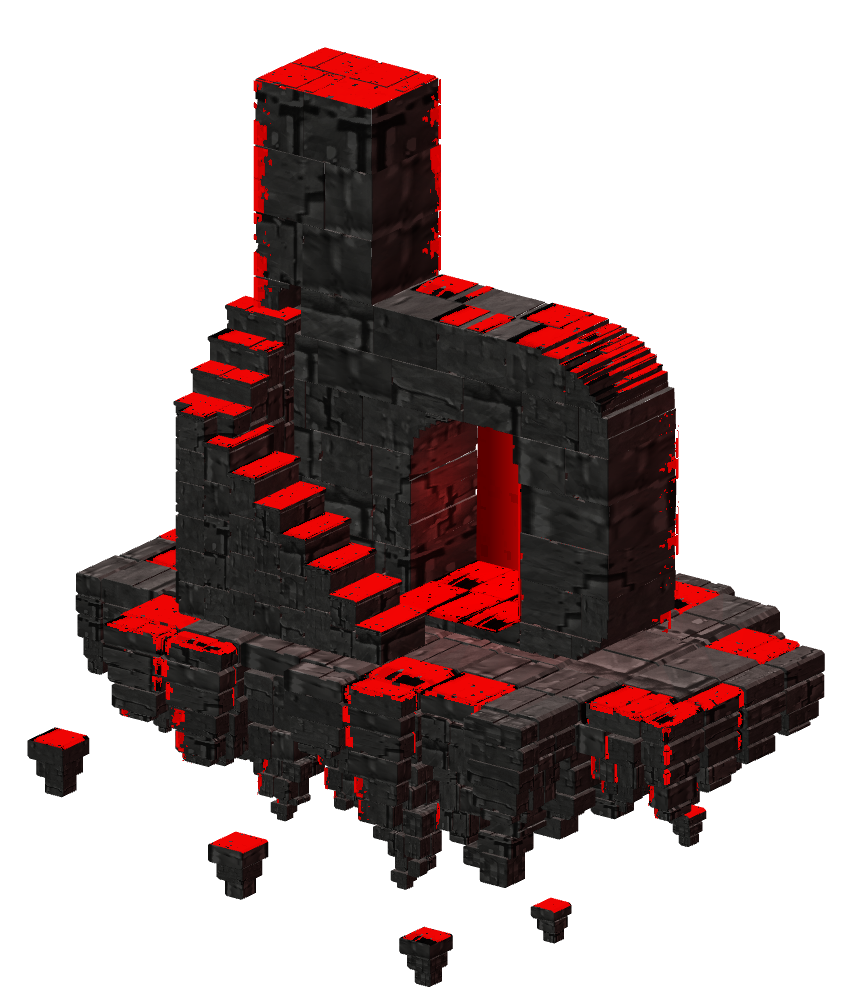
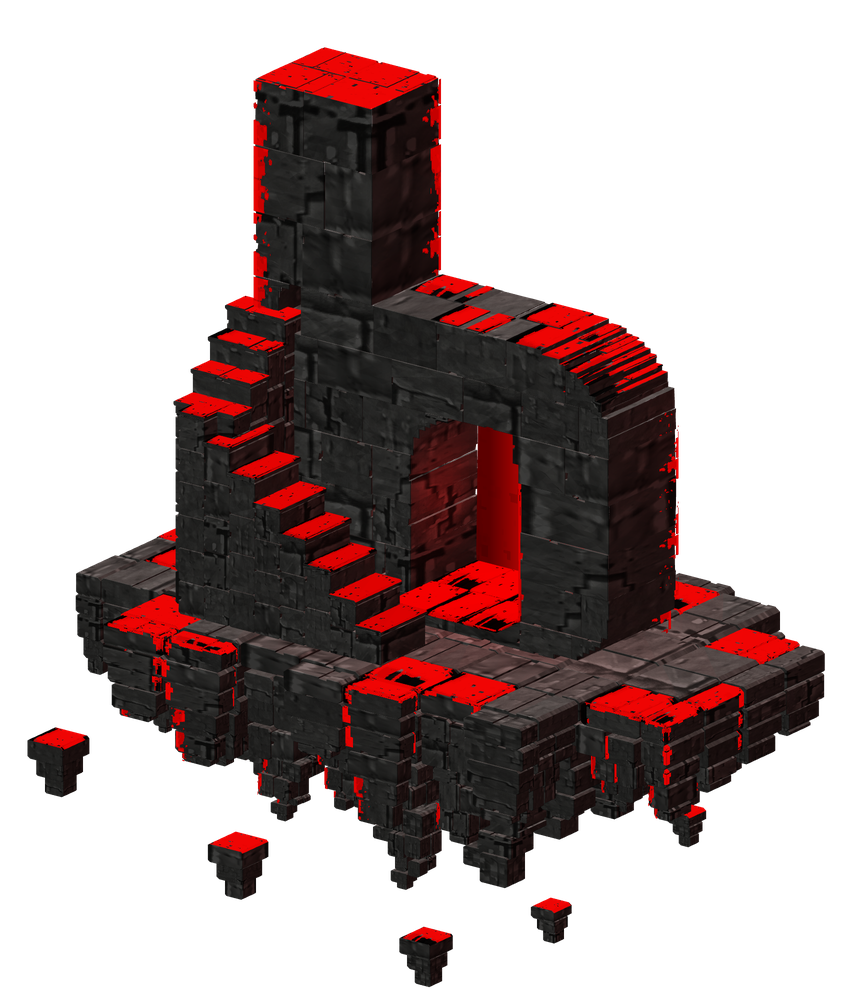
Island: light climbs the stairs; no Pause button
Lower stair treads are dimmer and the top ones full red (climb 0.87 from the
stair tuner), baked as tread vertex colours. The loading artwork is
regenerated with a new browser-based path (tools/poster) that renders with the
island's own modules; it matched the original Mesa render to about 1/255.
The on-page Pause control is removed; reduced motion still stills the island.

diff --git a/island/world.js b/island/world.js
@@ -38,7 +38,7 @@ export function createWorld({shadows = true, stoneMap = null} = {}) {
     if(g!==geometry)g.dispose();
   }
   const swatches=Array.from({length:7},(_,i)=>new THREE.Color(0x82817d).multiplyScalar(.85+i*.035));
-  function add(geometry,material=dark,shade=null) {
+  function add(geometry,material=dark,shade=null,tint=1) {
     if(geometry.index){const source=geometry;geometry=source.toNonIndexed();source.dispose();}
     const shadeColor=shade||swatches[Math.floor(rand()*swatches.length)];
     const tile=Math.floor(rand()*16),redTile=Math.floor(rand()*8);
@@ -51,7 +51,7 @@ export function createWorld({shadows = true, stoneMap = null} = {}) {
     for(let i=0;i<attrs.position.count;i+=3){
       const top=(attrs.normal.getY(i)+attrs.normal.getY(i+1)+attrs.normal.getY(i+2))/3>.58;
       const faceMaterial=material===red&&top?red:dark;
-      const color=faceMaterial===red?new THREE.Color(0xffffff).multiplyScalar(.94):shadeColor;
+      const color=faceMaterial===red?new THREE.Color(0xffffff).multiplyScalar(.94*tint):shadeColor;
       if(!batches.has(faceMaterial))batches.set(faceMaterial,[]);
       const list=batches.get(faceMaterial);
       // Store compact arrays; static faces are merged into two draw calls below.
@@ -62,7 +62,7 @@ export function createWorld({shadows = true, stoneMap = null} = {}) {
     }
     geometry.dispose();stoneCount++;
   }
-  function polygon(points,z,depth,material=dark,bevel=.006){
+  function polygon(points,z,depth,material=dark,bevel=.006,tint=1){
     if(points.length<3)return;
     // Remove redundant edge vertices, then notch occasional edges into broken stone.
     const clean=points.filter((p,i)=>{const a=points[(i+points.length-1)%points.length],b=points[(i+1)%points.length];return Math.abs((p[0]-a[0])*(b[1]-p[1])-(p[1]-a[1])*(b[0]-p[0]))>.000005;});
@@ -87,12 +87,12 @@ export function createWorld({shadows = true, stoneMap = null} = {}) {
     }
     // Only primary exposed masonry receives dense relief; island fragments retain crisp cuts.
     if(depth>.7&&size.y>.40)g=fractureGeometry(g,chipped,Math.floor(rand()*10000));
-    add(g,material);return g;
+    add(g,material,null,tint);return g;
   }
-  function slab(x,y,z,w,h,d,material=dark,chip=.023){
+  function slab(x,y,z,w,h,d,material=dark,chip=.023,tint=1){
     const a=chip*(.5+rand()),b=chip*(.5+rand());
     const pts=[[x-w/2+a,y-h/2],[x+w/2-b,y-h/2],[x+w/2,y-h/2+b],[x+w/2,y+h/2-a],[x+w/2-a,y+h/2],[x-w/2+b,y+h/2],[x-w/2,y+h/2-b],[x-w/2,y-h/2+a]];
-    return polygon(pts,z-d/2,d,material,Math.min(.006,w*.015,h*.015));
+    return polygon(pts,z-d/2,d,material,Math.min(.006,w*.015,h*.015),tint);
   }
   // Front-elevation silhouette measured from the supplied hero and close-ups.
   // A flat crown, tight stepped shoulder, broad upright and a small lower corner.
@@ -167,7 +167,9 @@ export function createWorld({shadows = true, stoneMap = null} = {}) {
   function stairColumn(x,z,w,d,top){
     const courses=Math.max(1,Math.round(top/.55)),h=(top-.08)/courses;
     for(let j=0;j<courses;j++)slab(x,.08+(j+.5)*h,z,w-.012,h-.014,d-.014,dark,.022);
-    slab(x,top+.025,z,w+.018,.075,d+.02,red,.015);
+    // The light climbs the stairs: lower treads are dimmer, the top ones full red (tuned by eye, climb 0.87).
+    const climb=THREE.MathUtils.clamp((top+.0625-.6)/3.6,0,1);
+    slab(x,top+.025,z,w+.018,.075,d+.02,red,.015,1-.87*.75*(1-climb));
   }
   const turnZ=1.46,turnX=-1.93;
   for(let i=0;i<4;i++)stairColumn(turnX,.63+i*.28,.74,.29,4.14-i*.36);

diff --git a/island/scene.js b/island/scene.js
@@ -5,7 +5,6 @@ import { sculptureCamera, frameSculpture } from './composition.js?v=embers-13';
 
 const container = document.querySelector('.hero__stage');
 const canvas = document.querySelector('#sculpture-canvas');
-const motionButton = document.querySelector('.motion-toggle');
 const reducedMotion = matchMedia('(prefers-reduced-motion: reduce)');
 const compact = matchMedia('(max-width: 760px)');
 let renderer;
@@ -20,7 +19,6 @@ function fallback() {
   if(errorNotice)errorNotice.hidden=false;
   cancelAnimationFrame(frame);
   container.classList.remove('is-3d-ready');
-  motionButton.hidden = true;
   renderer?.dispose();
 }
 
@@ -59,15 +57,11 @@ try {
   },{passive:true});
   document.querySelector('.hero').addEventListener('pointerleave',()=>pointer.set(0,0));
   function updateMotion() {
-    motionButton.setAttribute('aria-pressed',String(paused));
-    motionButton.setAttribute('aria-label',paused?'Resume hero animation':'Pause hero animation');
-    motionButton.firstElementChild.textContent=paused?'▷':'Ⅱ';
     if(paused)pointer.set(0,0);
   }
-  motionButton.addEventListener('click',()=>{paused=!paused;updateMotion();});
   reducedMotion.addEventListener('change',event=>{paused=event.matches;updateMotion();});
   canvas.addEventListener('webglcontextlost',event=>{event.preventDefault();fallback();});
-  resize();model.animate(0,!paused);motionButton.hidden=true;updateMotion();
+  resize();model.animate(0,!paused);updateMotion();
   let slowFrames=0,measured=0;
   function tick(now) {
     frame=requestAnimationFrame(tick);
@@ -92,7 +86,7 @@ try {
       model.applyStoneTexture(stoneMap);
       materialReady=true;model.animate(0,!paused);
       renderer.render(scene,camera);
-      container.classList.add('is-3d-ready');if(errorNotice)errorNotice.hidden=true;motionButton.hidden=false;updateMotion();
+      container.classList.add('is-3d-ready');if(errorNotice)errorNotice.hidden=true;updateMotion();
       // ?tune opens the red tuning panel (development only).
       if(/[?&]tune\b/.test(globalThis.location?.search||''))import('./tuner.js').then(t=>t.mountTuner(model.world,()=>{if(materialReady)renderer.render(scene,camera);}));
     } catch(error) {

diff --git a/island/tuner.js b/island/tuner.js
@@ -1,6 +1,6 @@
 // Stair tuning panel, for finding the red of the stair treads by eye. Opens only with ?tune in the address, never for
 // visitors. It patches the live red shader at runtime and touches only the twenty stair treads (picked out by their
-// position in world.js); the crown, island and gate keep the approved red. The island sources and the loading artwork's
+// position in world.js; their climbing light is already baked in at 0.87); the crown, island and gate keep the approved red. The island sources and the loading artwork's
 // provenance stay untouched. Once a look is chosen, its values get baked into the island and the artwork regenerated.
 
 import * as THREE from './assets/vendor/three.module.js';
@@ -14,7 +14,7 @@ const CONTROLS = [
   {key: 'glow', label: 'Glow', hint: 'Light the treads give off', min: 0, max: 8, value: 1, format: 'percent'},
   {key: 'speckle', label: 'Wear', hint: 'Clean ← → the dark chips in the stone', min: 0, max: 1, value: 1, format: 'percent'},
   {key: 'edge', label: 'Lit edge', hint: 'A bright pixel lip on each step’s edge', min: 0, max: 1.5, value: 0, format: 'percent'},
-  {key: 'fade', label: 'Climb', hint: 'Lit from the top ← → lit from the bottom', min: -1, max: 1, value: 0, format: 'climb'}
+  {key: 'fade', label: 'Climb', hint: 'Light falls down ← → light climbs up', min: -1, max: 1, value: 0, format: 'climb'}
 ];
 const defaults = {...Object.fromEntries(CONTROLS.map(c => [c.key, c.value])), color: ATLAS_RED};
 
@@ -131,7 +131,7 @@ export function mountTuner(world, render) {
   const formats = {
     percent: x => Math.round(x * 100) + '%',
     hue: x => x === 0 ? 'neutral' : (x < 0 ? 'crimson ' : 'scarlet ') + Math.round(Math.abs(x) * 100),
-    climb: x => x === 0 ? 'even' : (x < 0 ? 'top ' : 'bottom ') + Math.round(Math.abs(x) * 100)
+    climb: x => x === 0 ? 'even' : (x < 0 ? 'falls ' : 'climbs ') + Math.round(Math.abs(x) * 100)
   };
   const inputs = {};
   for (const c of CONTROLS) {

diff --git a/tools/poster/capture.html b/tools/poster/capture.html
@@ -1,0 +1,35 @@
+<!doctype html>
+<meta charset="utf-8">
+<title>Island poster capture</title>
+<style>body{margin:0;background:#090A08;color:#F4F0E6;font:14px system-ui;padding:16px}canvas{width:425px;height:504px;display:block;margin-top:12px}</style>
+<p id="status">Rendering…</p>
+<canvas id="c"></canvas>
+<script type="module">
+// Renders the loading artwork with the live island's own modules: the same geometry, shaders, camera, textures and the
+// quiet time-zero frame the page shows first. Drawn at twice the poster size; tools/poster/finish.py downsamples it.
+import * as THREE from '../../island/assets/vendor/three.module.js';
+import {createWorld} from '../../island/world.js?v=embers-13';
+import {loadStoneTexture} from '../../island/stone.js?v=embers-13';
+import {sculptureCamera} from '../../island/composition.js?v=embers-13';
+
+const W = 850, H = 1008, SCALE = 2;
+const status = document.querySelector('#status');
+const canvas = document.querySelector('#c');
+const renderer = new THREE.WebGLRenderer({canvas, alpha: true, antialias: true, preserveDrawingBuffer: true});
+renderer.setClearColor(0x000000, 0);
+renderer.outputColorSpace = THREE.SRGBColorSpace;
+renderer.toneMapping = THREE.NoToneMapping;
+renderer.setPixelRatio(1);
+renderer.setSize(W * SCALE, H * SCALE, false);
+const scene = new THREE.Scene();
+const camera = sculptureCamera(W / H);
+const model = createWorld();
+scene.add(model.world);
+model.applyStoneTexture(await loadStoneTexture());
+model.animate(0, false);
+renderer.render(scene, camera);
+const blob = await new Promise(r => canvas.toBlob(r, 'image/png'));
+const response = await fetch('/__poster', {method: 'POST', body: blob});
+status.textContent = response.ok ? 'Saved ' + (await response.text()) : 'Save failed: ' + response.status;
+document.title = response.ok ? 'done' : 'failed';
+</script>

diff --git a/css/styles.css b/css/styles.css
@@ -238,30 +238,6 @@ a { color: inherit; text-decoration: none; }
   height: 100%;
 }
 
-.motion-toggle {
-  position: absolute;
-  right: 4%;
-  bottom: 2%;
-  z-index: 2;
-  display: grid;
-  place-items: center;
-  width: 36px;
-  height: 36px;
-  padding: 0;
-  background: rgba(17, 17, 13, 0.8);
-  border: 1px solid rgba(244, 240, 230, 0.2);
-  border-radius: 50%;
-  color: var(--ivory-muted);
-  font: inherit;
-  font-size: 14px;
-  line-height: 1;
-  cursor: pointer;
-  opacity: 0.45;
-  transition: opacity 0.2s ease;
-}
-.motion-toggle[hidden] { display: none; }
-.motion-toggle:hover, .motion-toggle:focus-visible { opacity: 1; }
-
 .scene-error {
   position: absolute;
   left: 4%;

diff --git a/index.html b/index.html
@@ -53,7 +53,6 @@
             width="850" height="1008"
             alt="A lowercase b built from dark fractured stone blocks, floating on a rocky island. Red light catches the exposed edges, the arched doorway and a turning staircase."
             fetchpriority="high" decoding="async">
-          <button class="motion-toggle" type="button" aria-label="Pause hero animation" aria-pressed="false" hidden><span aria-hidden="true">Ⅱ</span></button>
           <div class="scene-error" role="status" hidden><span>3D couldn’t start.</span> <button class="retry-scene" type="button">Retry</button></div>
         </div>
       </figure>

diff --git a/js/hero.js b/js/hero.js
@@ -15,8 +15,6 @@
   import('../island/scene.js').catch(function (error) {
     console.warn('The live sculpture module could not load.', error);
     stage.classList.remove('is-3d-ready');
-    var motion = stage.querySelector('.motion-toggle');
-    if (motion) motion.hidden = true;
     if (notice) notice.hidden = false;
   });
 })();

diff --git a/tools/poster/finish.py b/tools/poster/finish.py
@@ -1,0 +1,28 @@
+"""Downsample the 2x browser render into the loading artwork and refresh its provenance manifest.
+
+Usage: python tools/poster/finish.py poster-2x.png
+"""
+import hashlib, json, sys
+from pathlib import Path
+from PIL import Image
+
+root = Path(__file__).resolve().parents[2]
+assets = root / 'island' / 'assets'
+poster = assets / 'sculpture-fallback-v13.webp'
+manifest_path = assets / 'sculpture-fallback-v13.render.json'
+
+image = Image.open(sys.argv[1]).convert('RGBA')
+# Premultiplied resampling keeps the transparent edges free of dark fringes.
+image = image.convert('RGBa').resize((850, 1008), Image.Resampling.LANCZOS).convert('RGBA')
+image.save(poster, 'WEBP', lossless=True, quality=100, method=6)
+
+sha = lambda path: hashlib.sha256(path.read_bytes()).hexdigest()
+inputs = {f'island/{name}': sha(root / 'island' / name) for name in ['world.js', 'stone.js', 'reference-shading.js', 'composition.js', 'fuse.js']}
+inputs.update({f'island/assets/pixel-{kind}-v9.png': sha(assets / f'pixel-{kind}-v9.png') for kind in ['stone', 'red', 'edge']})
+manifest = {
+    'renderer': 'Browser WebGL via tools/poster/capture.html (live island modules, 2x render, premultiplied Lanczos downsample)',
+    'artworkSha256': sha(poster),
+    'inputs': inputs,
+}
+manifest_path.write_text(json.dumps(manifest, indent=2) + '\n', encoding='utf-8', newline='\n')
+print('poster', poster, manifest['artworkSha256'])

diff --git a/README.md b/README.md
@@ -24,7 +24,7 @@ The hero is a live Three.js scene of fractured stone: a tall b stem, a curved bo
 
 | File | Responsibility |
 | --- | --- |
-| `island/scene.js` | Renderer, loading handoff, frame loop, pointer parallax, Pause, offscreen suspension. Adapted to this page's markup. |
+| `island/scene.js` | Renderer, loading handoff, frame loop, pointer parallax, reduced motion, offscreen suspension. Adapted to this page's markup. |
 | `island/world.js` | Procedural stone b, stairs, island and fragments (no model file). |
 | `island/reference-shading.js`, `island/stone.js` | Lighting shaders, texture loading and red masks. |
 | `island/fuse.js` | Gate breathing, the 6.5 s energy pulse up the stairs and around the island edges, and the floating pose. |
@@ -32,10 +32,14 @@ The hero is a live Three.js scene of fractured stone: a tall b stem, a curved bo
 | `island/assets/` | Texture atlases, the loading artwork (`sculpture-fallback-v13.webp`) and vendored Three.js 0.180.0 with its license. |
 | `js/hero.js` | Loads the island module and shows Retry if it can't download. |
 
-- **Keep the loading artwork and the first live frame identical.** The stage keeps the artwork's 710 × 842 proportions because the camera frames the sculpture from that aspect; the canvas stays hidden until every material has rendered. `tests/sculpture-startup.mjs` hashes the island sources and textures against the artwork's provenance manifest, so any change to geometry, shaders, camera or textures fails until the artwork is regenerated with the tools in the source export (Python, NumPy, Pillow and Mesa EGL; Linux-friendly). Do not silence that check.
+- **Keep the loading artwork and the first live frame identical.** The stage keeps the artwork's 710 × 842 proportions because the camera frames the sculpture from that aspect; the canvas stays hidden until every material has rendered. `tests/sculpture-startup.mjs` hashes the island sources and textures against the artwork's provenance manifest, so any change to geometry, shaders, camera or textures fails until the artwork is regenerated. Do not silence that check. To regenerate it (Windows is fine, Python needs Pillow):
+  1. `node tools/poster/capture.mjs poster-2x.png`, then open `http://localhost:8001/tools/poster/capture.html`. It renders the quiet first frame with the island's own modules at twice the size and saves it.
+  2. `python tools/poster/finish.py poster-2x.png` downsamples it into `island/assets/sculpture-fallback-v13.webp` and rewrites the manifest.
+  
+  This path was checked against the original Mesa render of the unchanged island: mean difference about 1/255, with only antialiasing differences on 0.7% of edge pixels.
 - Red energy follows the existing red texture and edge masks; charcoal faces never light up.
-- **Stair tuning:** open `http://localhost:8000/?tune` for a panel (`island/tuner.js`) that changes only the twenty stair treads: base red, brightness, hue, saturation, glow, wear (the dark chips), a lit pixel edge on each step and a top-to-bottom climb. It patches the live red shader only; values persist in the browser, *Hold: original* compares with the approved look and *Copy values* exports them. A chosen look must then be baked into the island and the loading artwork regenerated.
-- Pause, reduced motion and offscreen/background suspension stop the animation. Mobile caps the pixel ratio and lowers it if frames are slow.
+- **Stair tuning:** open `http://localhost:8000/?tune` for a panel (`island/tuner.js`) that changes only the twenty stair treads: base red, brightness, hue, saturation, glow, wear (the dark chips), a lit pixel edge on each step and the climbing light (baked at 0.87: lower treads dimmer, the top ones full red; slider values are relative to that). It patches the live red shader only; values persist in the browser, *Hold: original* compares with the approved look and *Copy values* exports them. A chosen look must then be baked into the island and the loading artwork regenerated.
+- Reduced motion and offscreen/background suspension stop the animation. There is no on-page Pause control (removed by design decision). Mobile caps the pixel ratio and lowers it if frames are slow.
 - The island has no character. A new mascot is planned; the menu footer still shows the earlier voxel explorer (`assets/explorer.png`).
 - Earlier voxel island (`js/island.js`, `js/explorer.js`, `assets/sculpture*.webp`, `assets/island.bin`, `tools/sculpture-vox.js`, `tools/build-sculpture.js`, `demo.html`) is no longer on the home page and is kept for reference.
 - Links to `games.html`, `studio.html` and `contact.html` are placeholders until those pages exist.
